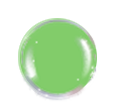
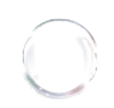
update

diff --git a/src/styles.css b/src/styles.css
@@ -435,7 +435,10 @@ html.vx-figma {
 
   .vx-how-card-copy h3,
   .vx-how-card-copy p {
-    font-size: 20px;
+    font-size: 24px;
+    font-weight: 700;
+    line-height: 1.2;
+    color: #fff;
   }
 
   .vx-how-minion {
@@ -627,6 +630,40 @@ html.vx-figma {
   }
 }
 
+/* Drive's /preview document is taller than 16:9 (title row + player). A
+   tight 16:9 iframe grows an inner scrollbar and clips the control bar.
+   html.vx-artboard { zoom } also desyncs that player's position:fixed chrome. */
+.vx-drive-embed {
+  position: relative;
+  width: 100%;
+  overflow: hidden;
+}
+
+.vx-drive-embed::before {
+  content: '';
+  display: block;
+  /* 16:9 plus Drive's title/control chrome, kept visually constant when
+     the page itself is zoomed for OS-DPI compensation. */
+  padding-top: calc(56.25% + (8rem / var(--vx-artboard-scale, 1)));
+}
+
+.vx-drive-embed iframe {
+  position: absolute;
+  inset: 0;
+  width: 100%;
+  height: 100%;
+  border: 0;
+}
+
+html.vx-artboard:not(.vx-artboard-transform) .vx-drive-embed iframe {
+  inset: auto;
+  top: 0;
+  left: 0;
+  zoom: calc(1 / var(--vx-artboard-scale, 1));
+  width: calc(100% * var(--vx-artboard-scale, 1));
+  height: calc(100% * var(--vx-artboard-scale, 1));
+}
+
 /* Section labels are solid green pills in the new design ("05. EXPLORE THE
    CONSTRUCTION SITES"), no longer plain uppercase text. */
 @utility vx-eyebrow {
@@ -671,6 +708,7 @@ html.vx-figma {
   min-width: 0;
   width: 100%;
   aspect-ratio: 784.6 / 345.9;
+  container-type: inline-size;
   overflow: visible;
 }
 
@@ -704,21 +742,22 @@ html.vx-figma {
   width: fit-content;
   max-width: 100%;
   text-align: left;
+  font-weight: 700;
 }
 
 .vx-how-card-copy h3 {
-  /* 14px on small screens → 20px from the 1920×1080 frame. */
-  font-size: clamp(14px, calc(10px + 0.625vw), 20px);
-  font-weight: 600;
-  line-height: 1.25;
+  font-size: clamp(14px, 5.8cqi, 24px);
+  font-weight: 700;
+  line-height: 1.2;
   color: #fff;
 }
 
 .vx-how-card-copy p {
-  margin-top: 0.2em;
-  font-size: clamp(13px, calc(9px + 0.625vw), 20px);
-  line-height: 1.3;
-  color: rgb(255 255 255 / 0.8);
+  margin-top: 0.15em;
+  font-size: clamp(14px, 5.8cqi, 24px);
+  font-weight: 700;
+  line-height: 1.2;
+  color: #fff;
 }
 
 /* Orb sits on the open corner of the filete and hangs outside the card. */
@@ -751,6 +790,8 @@ html.vx-figma {
   width: 46%;
   height: 46%;
   object-fit: contain;
+  margin-top: 5px;
+  margin-left: 2px;
 }
 
 @media (min-width: 640px) {
@@ -1052,14 +1093,15 @@ html.vx-figma {
   display: flex;
   min-width: 0;
   align-items: flex-start;
-  justify-content: flex-start;
+  justify-content: center;
   overflow: hidden;
 }
 
 .vx-found-card__copy-inner {
   display: flex;
-  width: 100%;
-  min-width: 0;
+  width: fit-content;
+  min-width: 76%;
+  max-width: 100%;
   max-height: 100%;
   flex-direction: column;
   align-items: flex-start;
@@ -1067,7 +1109,8 @@ html.vx-figma {
 }
 
 .vx-found-card__copy h3 {
-  width: 100%;
+  width: max-content;
+  max-width: 100%;
   min-width: 0;
   font-size: clamp(0.85rem, 6.5cqi, 1.125rem);
   font-weight: 600;
@@ -1092,8 +1135,8 @@ html.vx-figma {
 }
 
 .vx-found-card__copy p {
-  width: 100%;
-  min-width: 0;
+  width: 0;
+  min-width: 100%;
   margin-top: 2.8cqi;
   font-size: clamp(0.7rem, 4.6cqi, 0.875rem);
   font-weight: 400;
@@ -1346,11 +1389,13 @@ html.vx-figma {
 }
 
 /* Laptop 1024–1799: pin slide 03 cards to the soil band (must follow the
-   <1800 min-height: 0 reset). Grid columns are set with .vx-found-grid. */
+   <1800 min-height: 0 reset). Four-column grid lives with .vx-found-grid. */
 @media (min-width: 1024px) and (width < 1800px) {
   html:not(.vx-figma) .vx-benefits-stage {
     min-height: 100svh;
     justify-content: space-between;
+    gap: 1.25rem;
+    padding-bottom: 1.5rem;
   }
 }
 

diff --git a/src/app/core/models/section.model.ts b/src/app/core/models/section.model.ts
@@ -5,12 +5,8 @@
  * This array drives BOTH the header navigation and the order in which the
  * section components are rendered on the page, so the two can never drift.
  *
- * Heads-up on 02 and 03: in the design the green pill of a section does not
- * repeat its own headline. "02. KEY BENEFITS OF VIXERAN®" sits above the
- * "How VIXERAN® works" headline, and "03. MEET THE BIO ENGINEERS" sits above
- * "Key benefits of VIXERAN®". The header nav follows the pills. This is
- * reproduced verbatim from the comp and is pending confirmation with design —
- * it may well be a layer mix-up in the source PSD.
+ * Section 02 pill: "02. MEET THE BIO ENGINEERS"
+ * Section 03 pill: "03. KEY BENEFITS OF VIXERAN®"
  */
 export interface JourneySection {
   /** "01" ... "08" - printed inside the green section pill. */

diff --git a/src/app/features/nitrogen-uptake/nitrogen-uptake-section.ts b/src/app/features/nitrogen-uptake/nitrogen-uptake-section.ts
@@ -32,11 +32,10 @@ import { SectionShell } from '../../shared/components/section-shell';
         </p>
 
         <div
-          class="relative aspect-video w-full min-w-0 overflow-hidden rounded-[20px] bg-ink-950
+          class="vx-drive-embed w-full min-w-0 rounded-[20px] bg-ink-950
                  shadow-[0_24px_60px_rgba(0,0,0,0.45)] ring-1 ring-white/15"
         >
           <iframe
-            class="absolute inset-0 h-full w-full border-0"
             src="https://drive.google.com/file/d/1kpS-FD0ew360IecqTOwPVWyB77nIrJS8/preview"
             allow="autoplay; fullscreen"
             allowfullscreen

diff --git a/src/app/features/how-it-works/how-it-works-section.ts b/src/app/features/how-it-works/how-it-works-section.ts
@@ -83,7 +83,7 @@ interface Callout {
               <span class="vx-how-icon" aria-hidden="true">
                 <img
                   class="vx-how-icon-orb"
-                  src="assets/img/slide-02/icon-orb.webp"
+                  src="assets/all/slide-02/burbuja.webp "
                   alt=""
                 />
                 <img [src]="callout.icon" alt="" class="vx-how-icon-glyph" />
